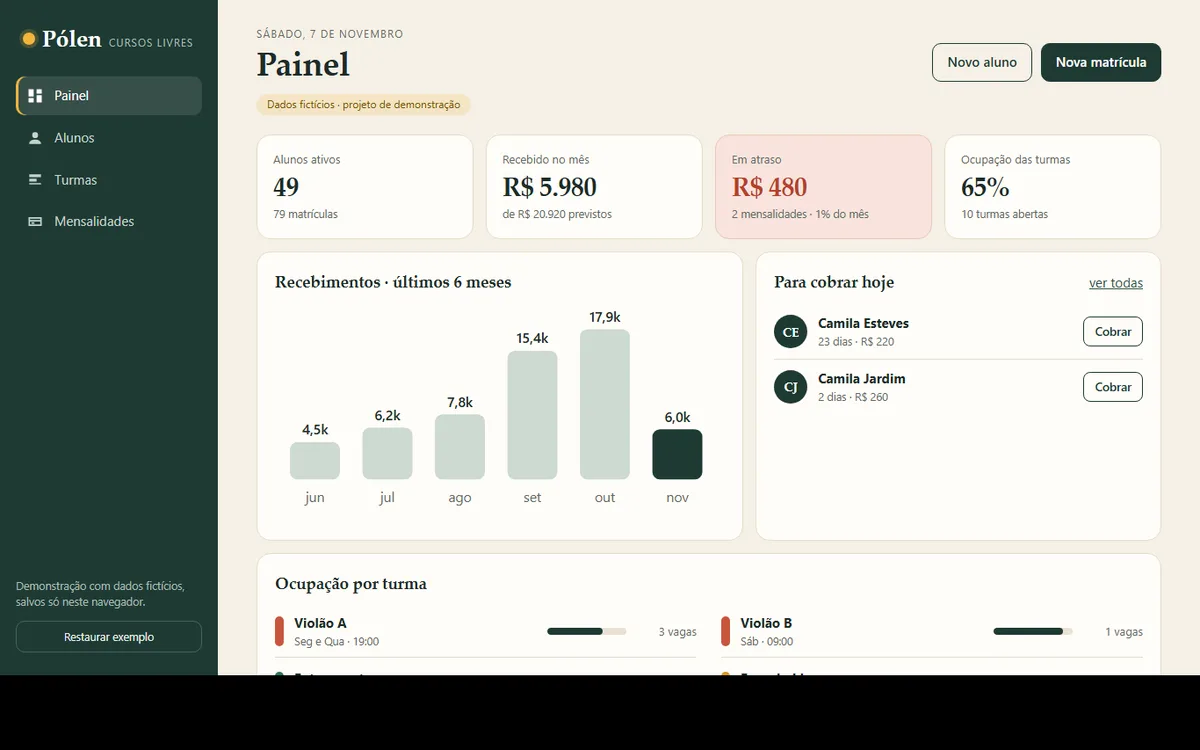
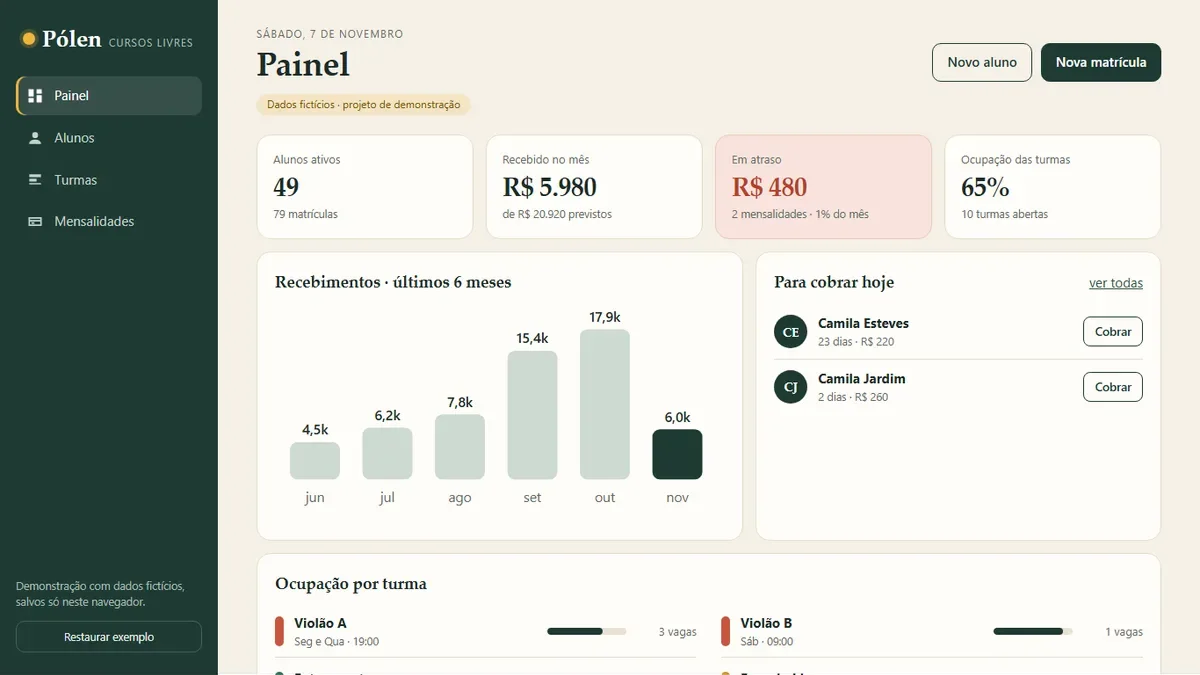
S-0681: polen-d.webp sem faixa preta (1200x675)

diff --git a/index.html b/index.html
@@ -622,7 +622,7 @@
         <p class="links"><a class="lnk" href="https://alissonlittig.github.io/ritmo-crm-fitness/" rel="noopener"><span lang="pt">Abrir o app</span><span lang="en">Open the app</span></a><a class="lnk" href="https://github.com/alissonlittig/ritmo-crm-fitness" rel="noopener"><span lang="pt">Código no GitHub</span><span lang="en">Code on GitHub</span></a></p>
       </article>
       <article class="tile">
-        <a class="pic" href="https://alissonlittig.github.io/polen-escola/" rel="noopener" tabindex="-1" aria-hidden="true"><span class="sel">Lit</span><img src="assets/img/polen-d.webp" width="1200" height="750" loading="lazy" alt=""></a>
+        <a class="pic" href="https://alissonlittig.github.io/polen-escola/" rel="noopener" tabindex="-1" aria-hidden="true"><span class="sel">Lit</span><img src="assets/img/polen-d.webp" width="1200" height="675" loading="lazy" alt=""></a>
         <h3><a href="https://alissonlittig.github.io/polen-escola/" rel="noopener">Pólen</a></h3>
         <p class="tag"><span lang="pt">CRM de escola de cursos livres · Lit + TypeScript</span><span lang="en">Short-course school CRM · Lit + TypeScript</span></p>
         <p class="d"><span lang="pt">Alunos, turmas com controle de vagas, mensalidades com recebimento por Pix, cartão ou dinheiro e painel com gráfico de 6 meses. Testes automatizados, CI e deploy no GitHub Pages. Código aberto.</span><span lang="en">Students, classes with seat control, tuition with Pix, card or cash payment and a 6-month dashboard chart. Automated tests, CI and GitHub Pages deploy. Open source.</span></p>
